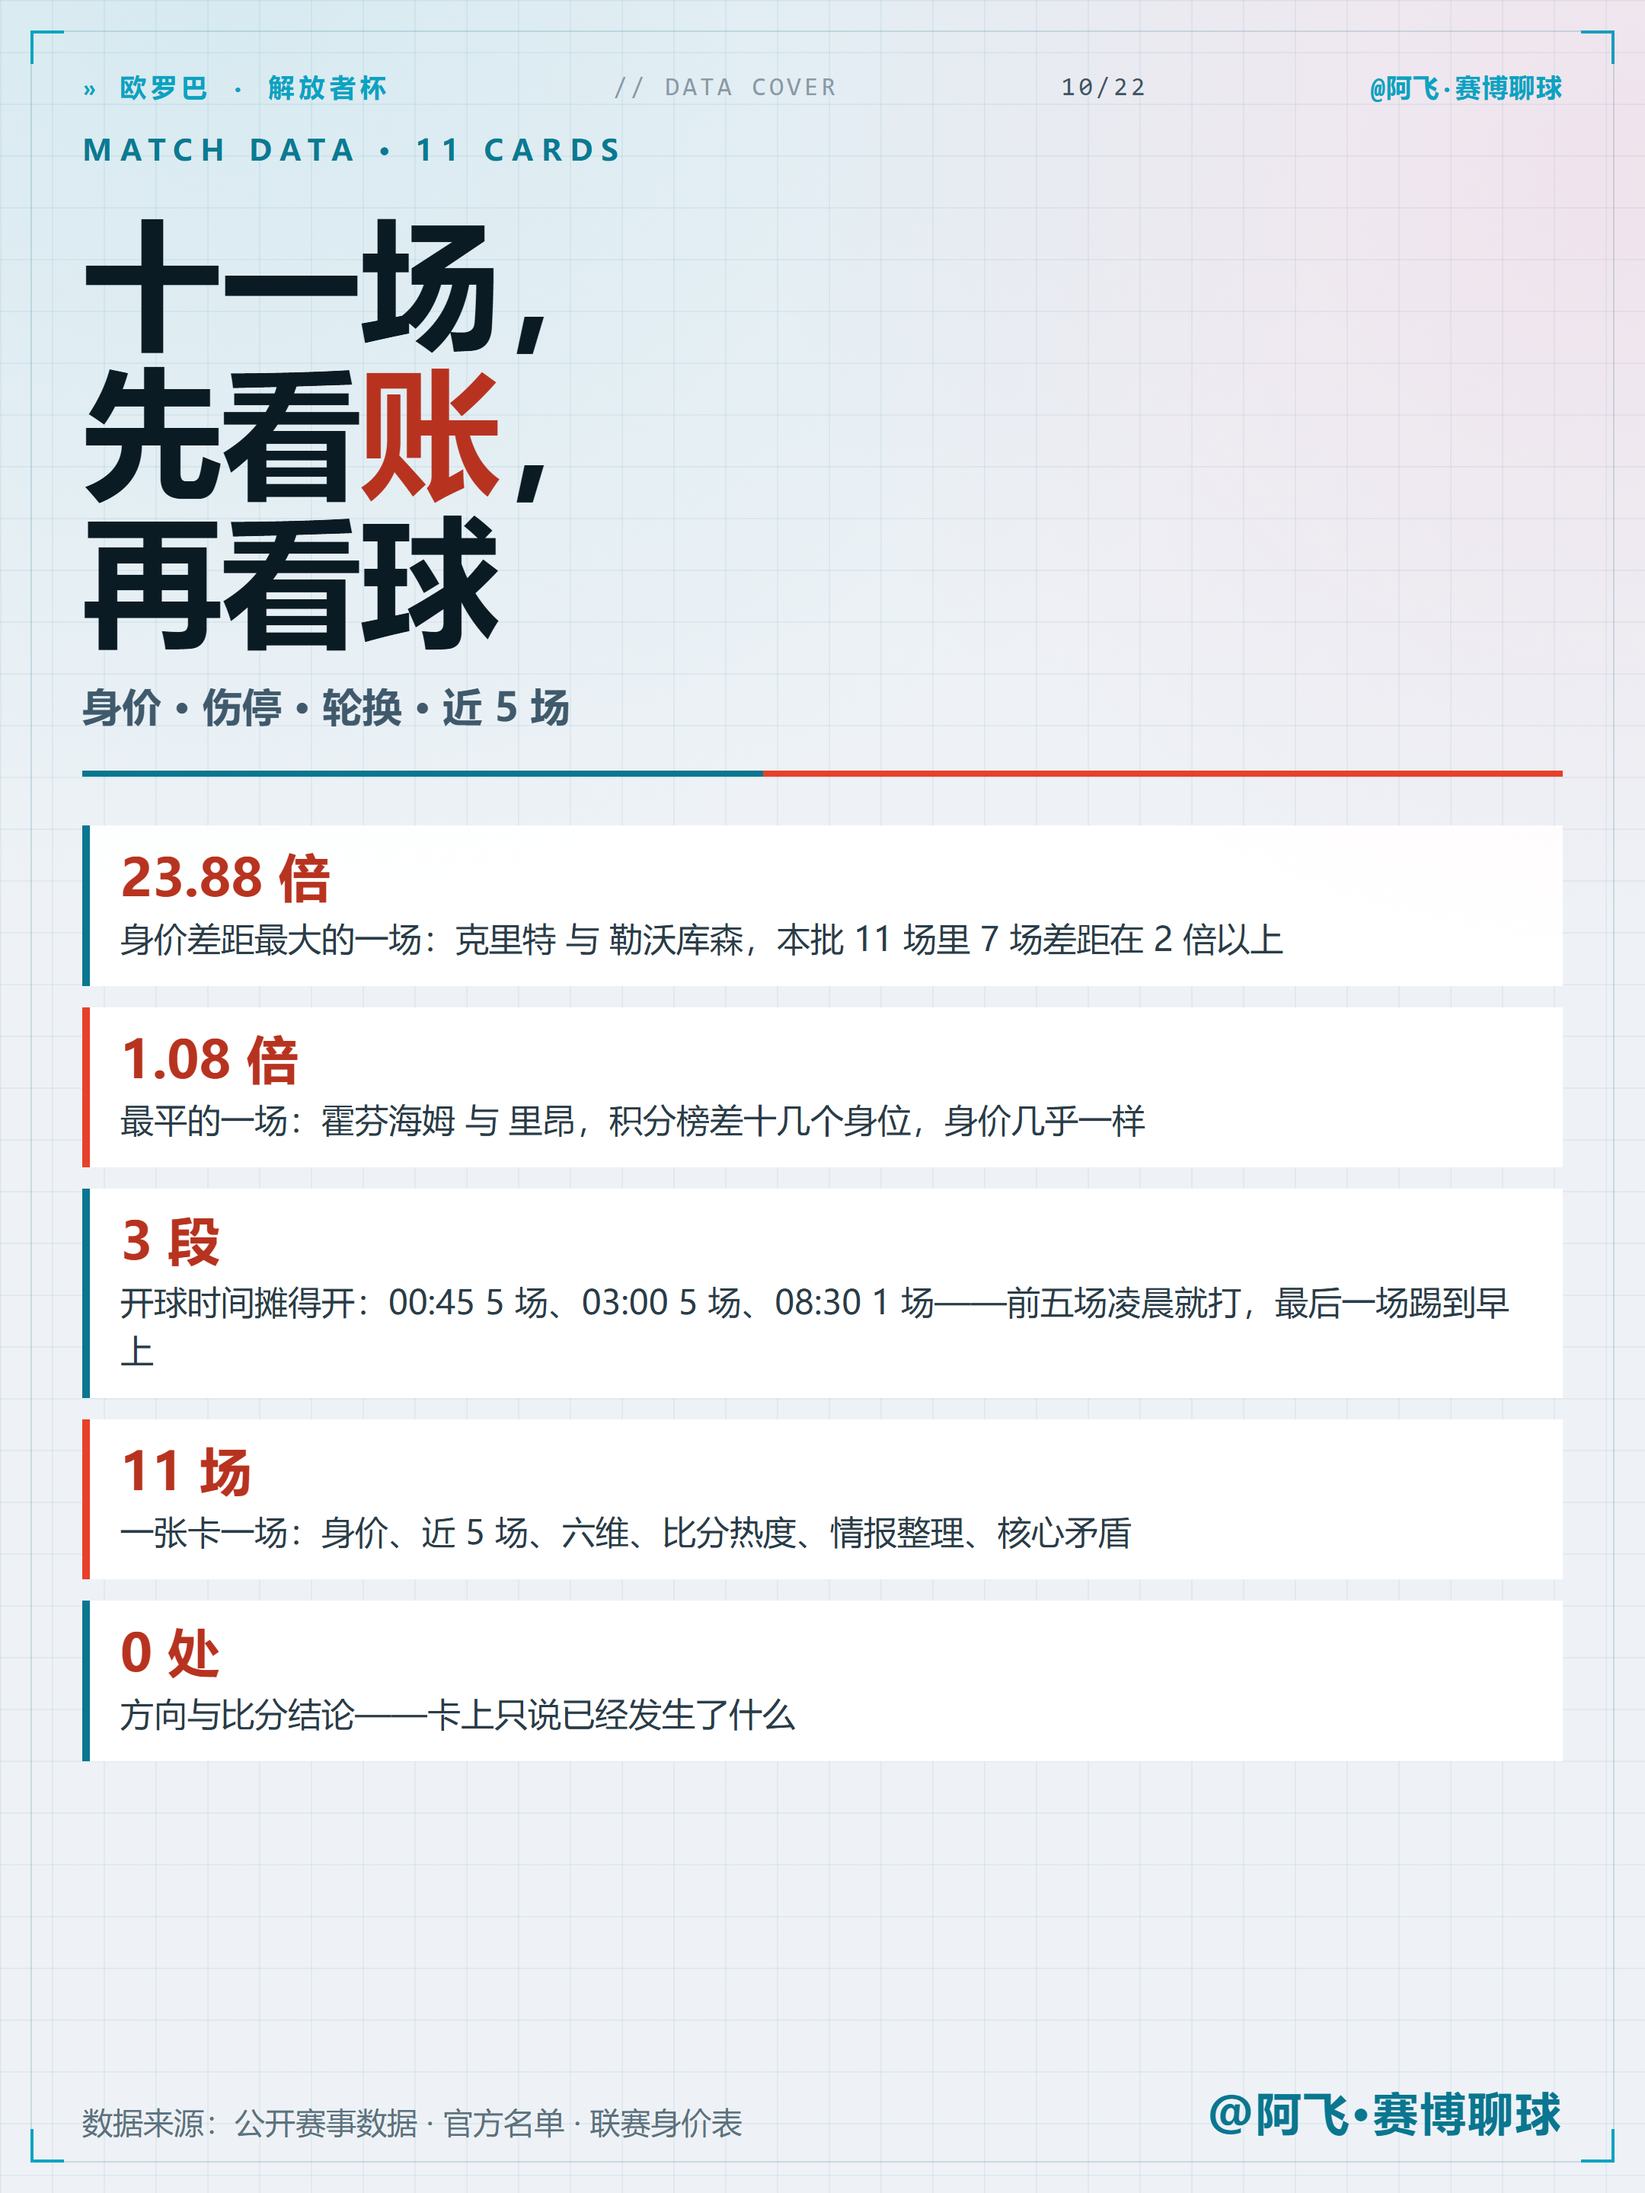
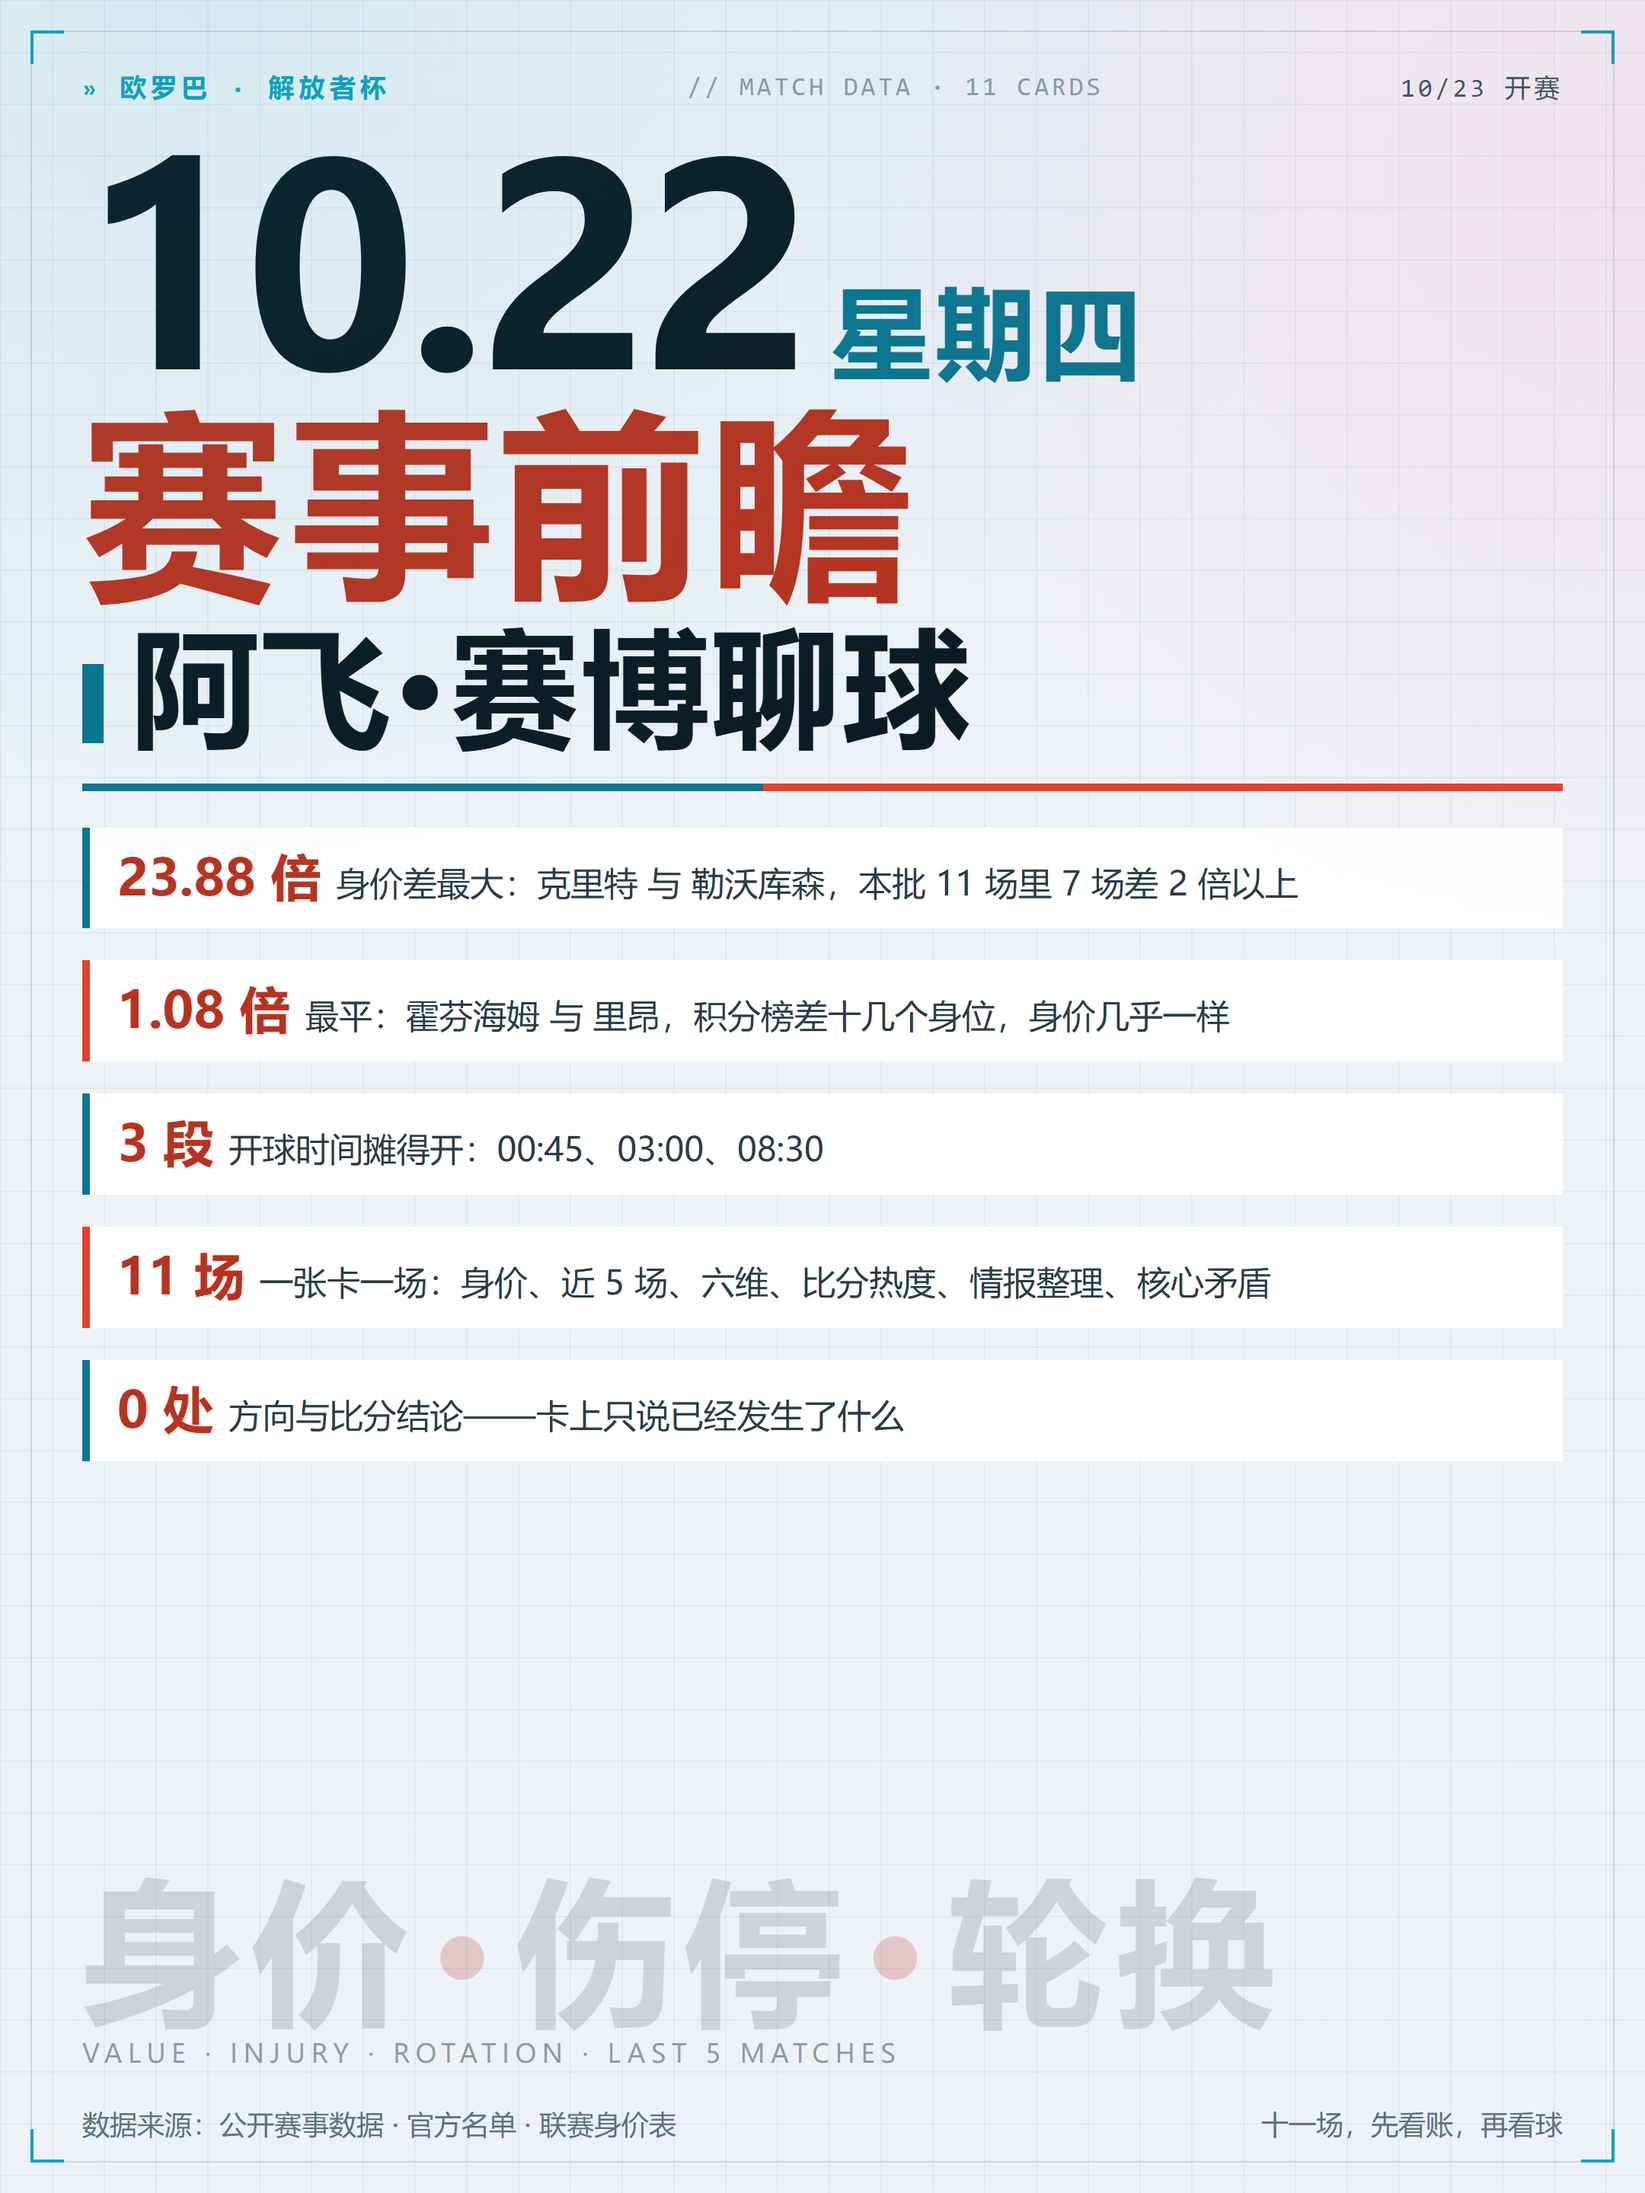
周四D版封面：超大日期/星期/赛事前瞻/品牌 + 底部关键字带

diff --git a/scripts/xhs_card_d.py b/scripts/xhs_card_d.py
@@ -519,76 +519,72 @@ def shot(html_path: Path, png_path: Path) -> bool:
 
 
 COVER_CSS = """
-.cov{padding:0 0 22px 0;width:100%;flex:1;display:flex;flex-direction:column;text-align:left}
+.cov{padding:0 0 10px 0;width:100%;flex:1;display:flex;flex-direction:column;text-align:left}
 .top{width:100%}
-.cov .eyebrow{margin-top:18px;font-size:19px;letter-spacing:.28em;color:#0a768f;font-weight:800}
-.cov h1{margin:26px 0 0;text-align:left;font-size:92px;line-height:1.06;font-weight:900;color:#0b1b23;letter-spacing:-.01em}
-.cov h1 em{font-style:normal;color:#b8331f}
-.cov .sub{margin-top:18px;font-size:26px;color:#41586a;font-weight:600}
-.cov .rule{height:4px;margin:26px 0 0;background:linear-gradient(90deg,#0a768f,#0a768f 46%,#e8402a 46%,#e8402a)}
-.cov .pts{margin-top:32px;display:grid;gap:14px}
-.cov .fill{flex:1}
-.cov .pt2{background:#fff;border-left:5px solid #0a768f;padding:15px 20px}
-.cov .pt2 b{display:block;font-size:34px;font-family:var(--mono);color:#b8331f;font-weight:800;line-height:1.1}
-.cov .pt2 span{display:block;margin-top:6px;font-size:22px;color:#2a3c48;line-height:1.45}
+.cov .eyebrow{margin-top:14px;font-size:19px;letter-spacing:.26em;color:#0a768f;font-weight:800}
+.cov .date{display:flex;align-items:baseline;gap:18px;margin-top:20px}
+.cov .date b{font-family:var(--mono);font-size:182px;line-height:.94;font-weight:800;color:#0b1b23;letter-spacing:-.03em}
+.cov .date span{font-size:66px;font-weight:900;color:#0a768f;letter-spacing:.04em}
+.cov .k1{margin-top:2px;font-size:132px;line-height:1.02;font-weight:900;color:#b8331f;letter-spacing:.04em}
+.cov .k2{margin-top:10px;font-size:84px;line-height:1.05;font-weight:900;color:#0b1b23;letter-spacing:.02em}
+.cov .k2 i{display:inline-block;width:14px;height:52px;background:#0a768f;margin-right:18px;vertical-align:-6px}
+.cov .rule{height:5px;margin:20px 0 0;background:linear-gradient(90deg,#0a768f,#0a768f 46%,#e8402a 46%,#e8402a)}
+.cov .pts{margin-top:24px;display:grid;gap:21px}
+.cov .pt2{background:#fff;border-left:5px solid #0a768f;padding:14px 18px}
+.cov .pt2 b{display:inline-block;font-size:33px;font-family:var(--mono);color:#b8331f;font-weight:800;
+  line-height:1.1;margin-right:10px}
+.cov .pt2 span{display:inline;font-size:22px;color:#2a3c48;line-height:1.45}
 .cov .pt2:nth-child(even){border-left-color:#e8402a}
-.foot2{width:100%;margin-top:0;padding-top:20px;display:flex;justify-content:space-between;align-items:flex-end;
-  font-size:20px;color:#5b7280}
-.foot2 b{font-size:30px;color:#0a768f;letter-spacing:.04em}
+.cov .tags3{margin-top:0;font-size:104px;line-height:1.06;font-weight:900;color:rgba(11,27,35,.14);letter-spacing:.06em}
+.cov .tags3 i{font-style:normal;color:rgba(184,51,31,.22);margin:0 6px}
+.cov .en{margin-top:2px;margin-bottom:4px;font-family:var(--mono);font-size:17px;letter-spacing:.22em;color:rgba(11,27,35,.42)}
+.cov .fill{flex:1}
+.foot2{width:100%;padding-top:10px;display:flex;justify-content:space-between;align-items:flex-end;
+  font-size:18px;color:#5b7280}
 """
 
 
 def cover_html(data: dict) -> str:
-    """封面：只放主题与四个数据点，**不像清单那样逐场列队**（10/21 判词第①条）。"""
+    """封面：日期/星期 + 赛事前瞻 + 品牌用超大字号；数据点式，不逐场列清单（判词第①条）。"""
     ms = data.get("matches") or []
-    lens = [m for m in ms if (m.get("value") or {}).get("ratio")]
     ratios = []
-    for m in lens:
+    for m in ms:
         try:
-            ratios.append((float(str(m["value"]["ratio"]).replace("倍", "").strip()), m))
-        except ValueError:
-            pass
+            ratios.append((float(str((m.get("value") or {}).get("ratio", "")).replace("倍", "").strip()), m))
+        except (TypeError, ValueError):
+            continue
     ratios.sort(key=lambda x: -x[0])
     big = [x for x in ratios if x[0] >= 2.0]
     pts = []
     if ratios:
         r, m = ratios[0]
-        pts.append(("%.2f 倍" % r, "身价差距最大的一场：%s 与 %s，本批 %d 场里 %d 场差距在 2 倍以上"
+        pts.append(("%.2f 倍" % r, "身价差最大：%s 与 %s，本批 %d 场里 %d 场差 2 倍以上"
                     % (m["home"], m["away"], len(ms), len(big))))
     if len(ratios) > 1:
         r, m = ratios[-1]
-        pts.append(("%.2f 倍" % r, "最平的一场：%s 与 %s，积分榜差十几个身位，身价几乎一样"
+        pts.append(("%.2f 倍" % r, "最平：%s 与 %s，积分榜差十几个身位，身价几乎一样"
                     % (m["home"], m["away"])))
-    # 开球时段（按 kick 的时分归类，避免写死）
-    from collections import Counter
-    tm = Counter()
-    for m in ms:
-        k = str(m.get("kick") or "")
-        hhmm = k.split()[-1] if " " in k else ""
-        if ":" in hhmm:
-            tm[hhmm] += 1
-    if tm:
-        order = sorted(tm.items(), key=lambda x: x[0])
-        pts.append(("%d 段" % len(order), "开球时间摊得开：" +
-                    "、".join("%s %d 场" % (t, n) for t, n in order) +
-                    "——前五场凌晨就打，最后一场踢到早上"))
+    pts.append(("%d 段" % len({(m.get("kick") or "").split()[-1] for m in ms if m.get("kick")}),
+                "开球时间摊得开：" + "、".join(sorted({(m.get("kick") or "").split()[-1] for m in ms if m.get("kick")}))))
     pts.append(("%d 场" % len(ms), "一张卡一场：身价、近 5 场、六维、比分热度、情报整理、核心矛盾"))
-    pts.append(("0 处" if True else "", "方向与比分结论——卡上只说已经发生了什么"))
+    pts.append(("0 处", "方向与比分结论——卡上只说已经发生了什么"))
     body = "".join('<div class="pt2"><b>%s</b><span>%s</span></div>' % (esc(a), esc(b)) for a, b in pts)
     return f"""<!doctype html><html lang="zh"><head><meta charset="utf-8"><style>{CSS}{COVER_CSS}</style></head>
 <body><div class="card">
 <div class="frame"><i class="tl"></i><i class="tr"></i><i class="bl"></i><i class="br"></i></div>
-<div class="top"><span class="lg">» 欧罗巴 · 解放者杯</span><span class="md">// DATA COVER</span>
-<span>10/22</span><span class="bd">@阿飞·赛博聊球</span></div>
+<div class="top"><span class="lg">» 欧罗巴 · 解放者杯</span><span class="md">// MATCH DATA · 11 CARDS</span>
+<span>10/23 开赛</span></div>
 <div class="cov">
-  <div class="eyebrow">MATCH DATA · 11 CARDS</div>
-  <h1>十一场，<br/>先看<em>账</em>，<br/>再看球</h1>
-  <div class="sub">身价 · 伤停 · 轮换 · 近 5 场</div>
+  <div class="date"><b>10.22</b><span>星期四</span></div>
+  <div class="k1">赛事前瞻</div>
+  <div class="k2"><i></i>阿飞·赛博聊球</div>
   <div class="rule"></div>
   <div class="pts">{body}</div>
   <div class="fill"></div>
+  <div class="tags3">身价<i>·</i>伤停<i>·</i>轮换</div>
+  <div class="en">VALUE · INJURY · ROTATION · LAST 5 MATCHES</div>
 </div>
-<div class="foot2"><span>数据来源：公开赛事数据 · 官方名单 · 联赛身价表</span><b>@阿飞·赛博聊球</b></div>
+<div class="foot2"><span>数据来源：公开赛事数据 · 官方名单 · 联赛身价表</span><span>十一场，先看账，再看球</span></div>
 </div></body></html>"""
 
 
